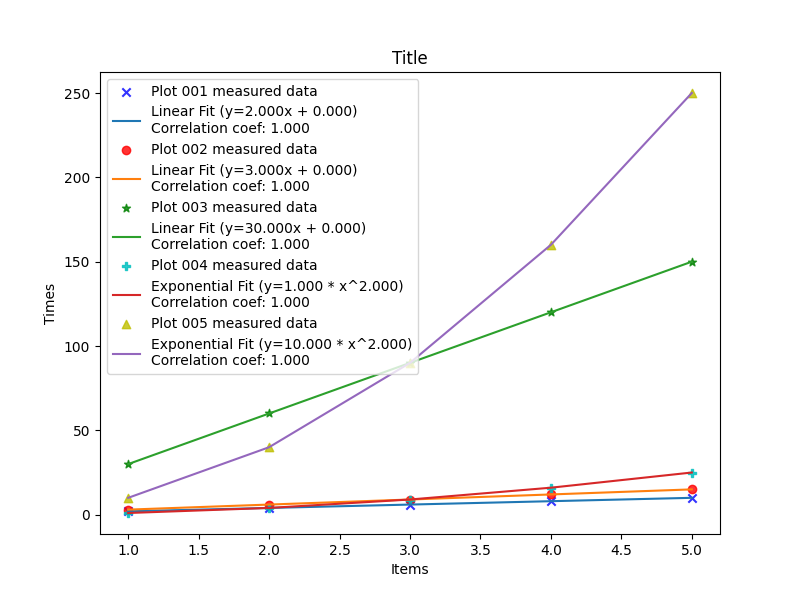
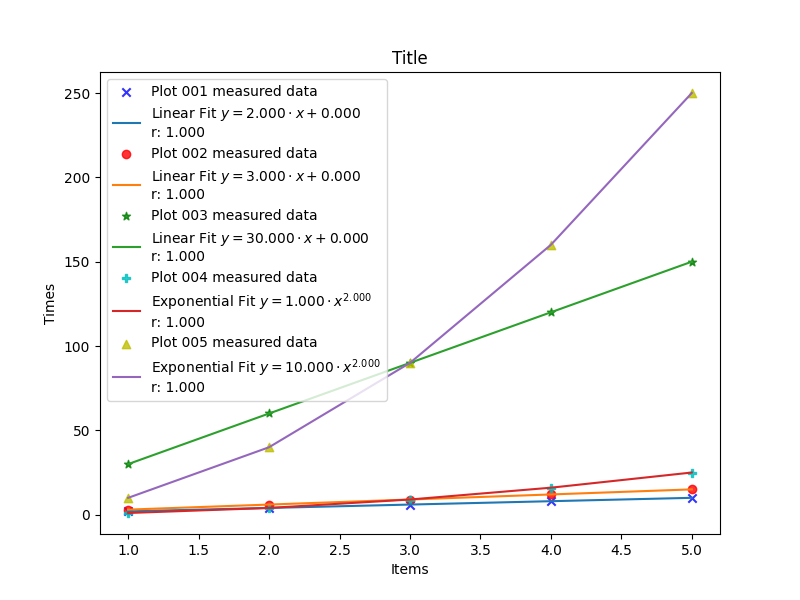
LateX syntaxing? GAWD DAYUM

Changed region(s): [[0.125, 0.18, 0.5312, 0.66], [0.375, 0.66, 0.4062, 0.69]]

diff --git a/Analysis/src/scripts/pyplot.py b/Analysis/src/scripts/pyplot.py
@@ -76,11 +76,11 @@ def __generate_expected_data(slope: float, intercept:float,x: list[float], plot_
 def __get_graph_data(x_coords: List[float], y_coords: List[float], type: str) -> tuple[str, List[float]]:
     if type == "Linear":
         slope, intercept, r_value = __linear_regression(x_coords, y_coords)
-        equation = f'Linear Fit (y={slope:.3f}x + {intercept:.3f})\nCorrelation coef: {r_value:.3f}'
+        equation = fr'Linear Fit $y={slope:.3f} \cdot x + {intercept:.3f}$' + '\n' + f'r: {r_value:.3f}'
 
     elif type == "Exponential":
         slope, intercept, r_value = __power_law(x_coords, y_coords)
-        equation = f'Exponential Fit (y={intercept:.3f} * x^{slope:.3f})\nCorrelation coef: {r_value:.3f}'
+        equation = fr'Exponential Fit $y={intercept:.3f} \cdot x^{{ {slope:.3f} }}$' + '\n' + f'r: {r_value:.3f}'
 
     elif type == "None" or "Bar" or "Histogram" or "Scatter":
         equation = None
